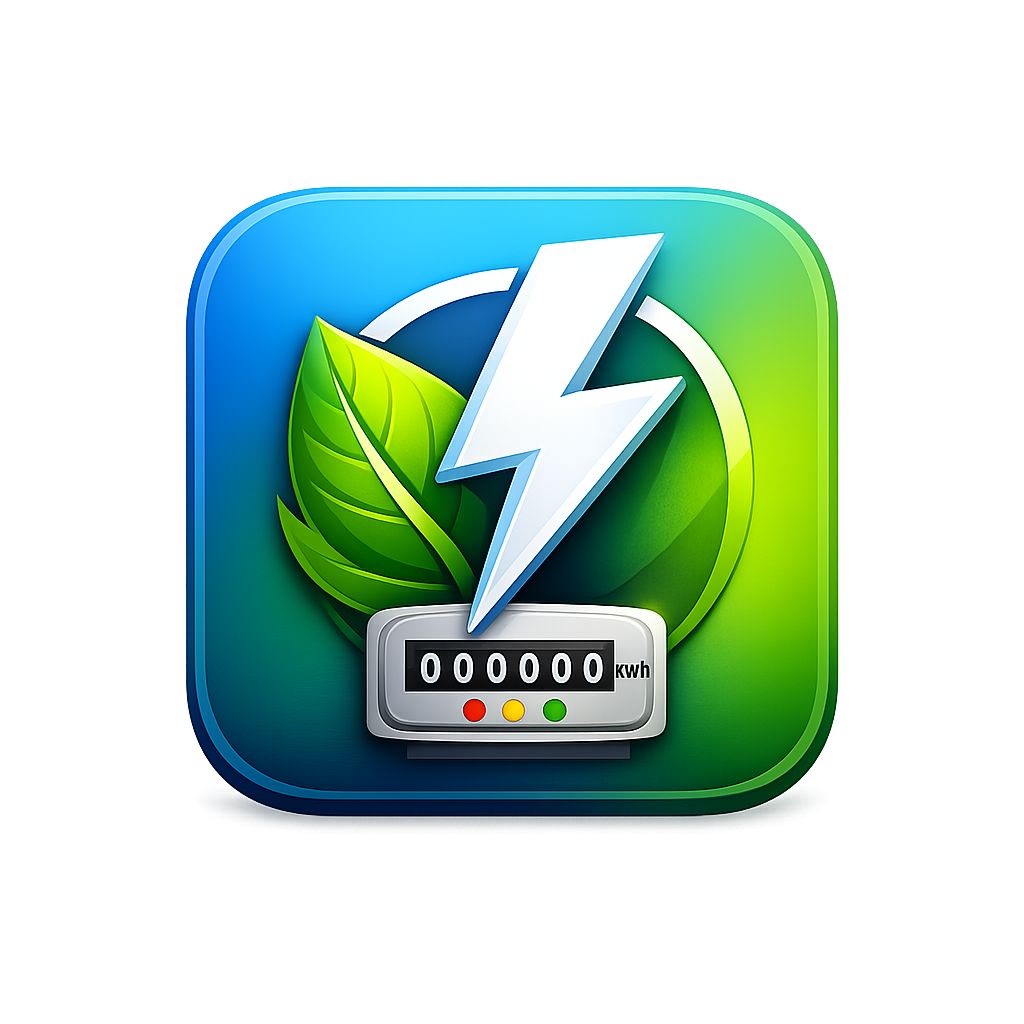
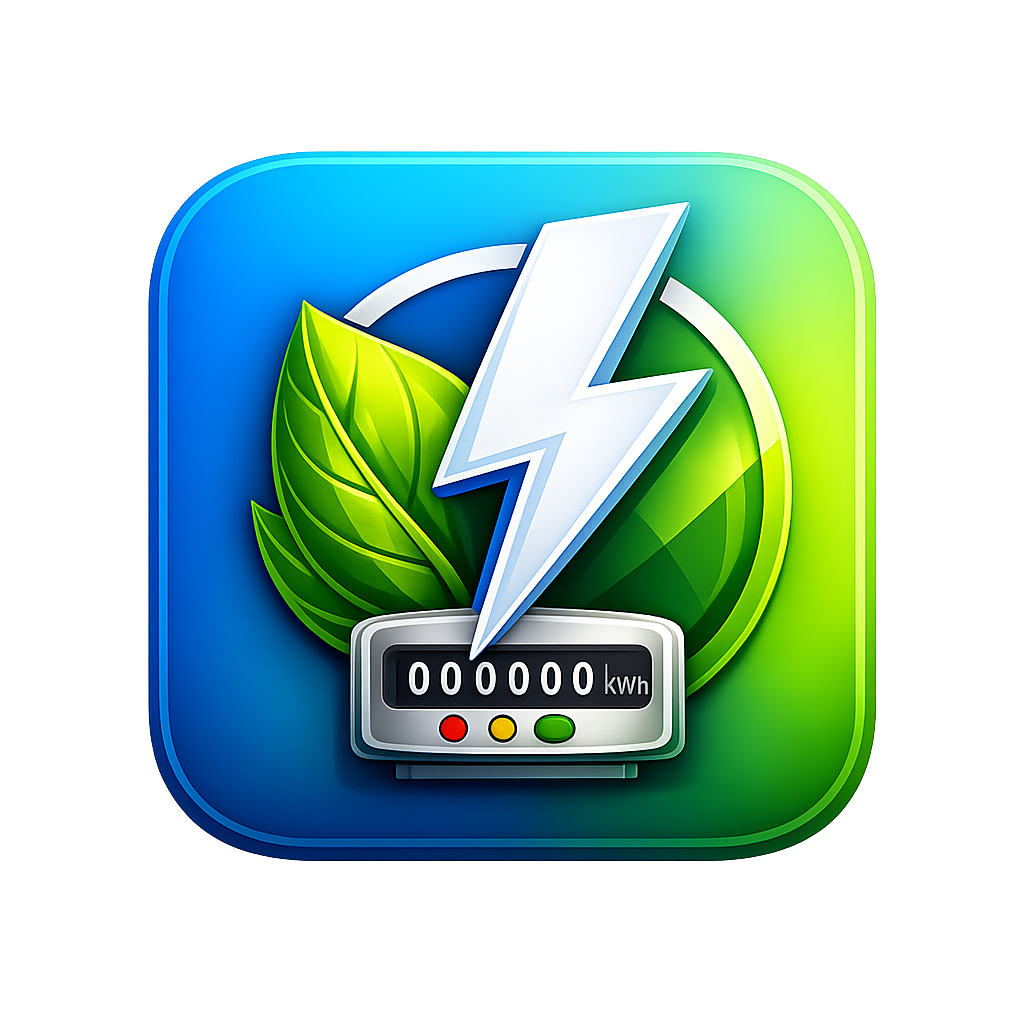
Add files via upload

diff --git a/script.js b/script.js
@@ -8,12 +8,21 @@ function calcular() {
     const valorCasa1 = consumoCasa1 * precoPorKwh;
     const valorCasa2 = (consumoTotal - consumoCasa1) * precoPorKwh;
 
+    // Formata em reais com vírgula
     document.getElementById("resultadoCasa1").innerText =
-      `Casa 1 deve pagar: R$ ${valorCasa1.toFixed(2)}`;
+      `Casa 1 deve pagar: R$ ${valorCasa1.toFixed(2).replace('.', ',')}`;
     document.getElementById("resultadoCasa2").innerText =
-      `Casa 2 deve pagar: R$ ${valorCasa2.toFixed(2)}`;
+      `Casa 2 deve pagar: R$ ${valorCasa2.toFixed(2).replace('.', ',')}`;
   } else {
     document.getElementById("resultadoCasa1").innerText = "Dados inválidos";
     document.getElementById("resultadoCasa2").innerText = "";
   }
+}
+
+function limpar() {
+  document.getElementById("valorConta").value = "";
+  document.getElementById("consumoTotal").value = "";
+  document.getElementById("consumoCasa1").value = "";
+  document.getElementById("resultadoCasa1").innerText = "";
+  document.getElementById("resultadoCasa2").innerText = "";
 }

diff --git a/index.html b/index.html
@@ -13,10 +13,22 @@
     <input id="valorConta" type="number" placeholder="Valor total da conta (R$)">
     <input id="consumoTotal" type="number" placeholder="Consumo total (kWh)">
     <input id="consumoCasa1" type="number" placeholder="Consumo Casa 1 (kWh)">
+    
     <button onclick="calcular()">Calcular</button>
+    <button onclick="limpar()">Limpar</button>
+    
     <p id="resultadoCasa1"></p>
     <p id="resultadoCasa2"></p>
   </div>
+
   <script src="script.js"></script>
+  <script>
+    // Registro do Service Worker para funcionar offline
+    if ("serviceWorker" in navigator) {
+      navigator.serviceWorker.register("service-worker.js")
+        .then(() => console.log("Service Worker registrado"))
+        .catch(err => console.error("Erro no Service Worker", err));
+    }
+  </script>
 </body>
 </html>